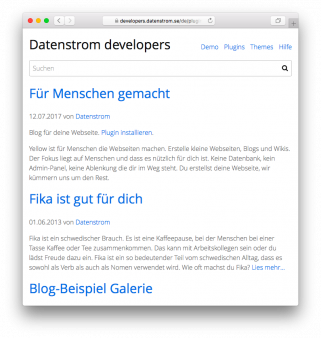
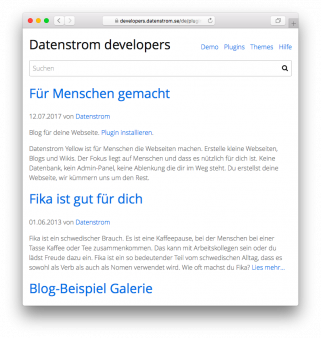
Documentation update

Changed region(s): [[0.0935, 0.4142, 0.9034, 0.5325]]

diff --git a/README.md b/README.md
@@ -2,7 +2,7 @@ Datenstrom Yellow developers
 ============================
 [![Datenstrom Yellow](https://raw.githubusercontent.com/datenstrom/yellow-developers/master/media/images/datenstrom-yellow-en.jpg)](https://datenstrom.se/yellow/)
 
-Yellow is for people who make websites. [See demo](https://developers.datenstrom.se/).
+Datenstrom Yellow is for people who make websites. [See demo](https://developers.datenstrom.se/).
 
 1. [Download developer kit and unzip it](https://github.com/datenstrom/yellow-developers/archive/master.zip).
 2. Copy all files to your web hosting.
